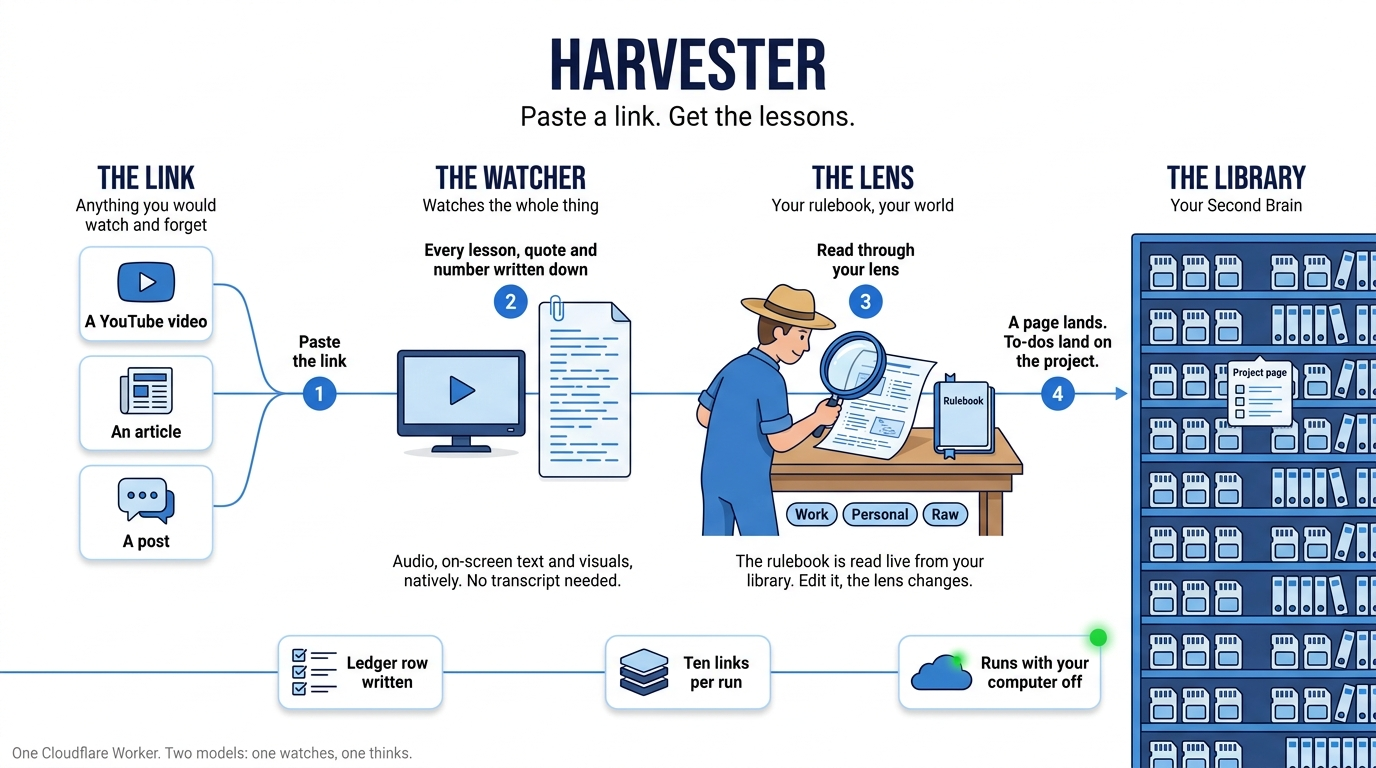
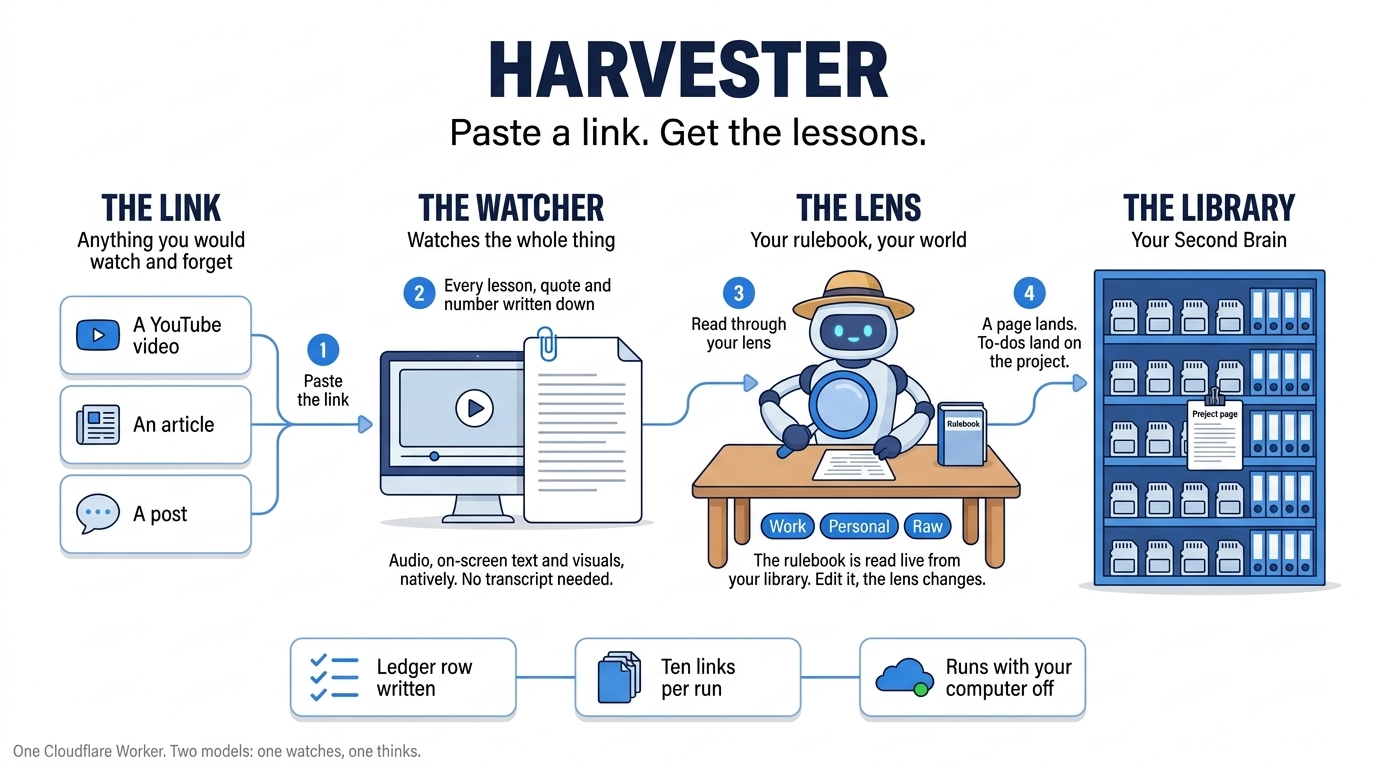
downloads: robot agents in the three explainer plates
Claude-Session: https://claude.ai/code/session_01VUg9rsnXRhP3ZgTBbGB6xz

diff --git a/index.html b/index.html
@@ -20,7 +20,7 @@ window.addEventListener("load", function () {
   <link rel="preconnect" href="https://fonts.googleapis.com">
   <link rel="preconnect" href="https://fonts.gstatic.com" crossorigin>
   <link href="https://fonts.googleapis.com/css2?family=Anton&family=Public+Sans:wght@400;500;600;700&family=IBM+Plex+Mono:wght@400;500&display=swap" rel="stylesheet">
-  <link rel="stylesheet" href="styles.css?v=20260924b" />
+  <link rel="stylesheet" href="styles.css?v=20260925a" />
 </head>
 <body>
   <a class="skip-link" href="#downloads">Skip to downloads</a>
@@ -51,7 +51,7 @@ window.addEventListener("load", function () {
         <div class="dl-grid">
           <article class="dl-card dl-card--wide">
             <a class="dl-card__fig" href="https://github.com/lennymadethat/second-brain">
-              <img src="/img/downloads/second-brain.png" alt="How Second Brain works: a rulebook at the front, a librarian that vectorizes every memory, a library any agent can search" loading="lazy" width="1376" height="768" />
+              <img src="/img/downloads/second-brain.png?v=2" alt="How Second Brain works: a rulebook at the front, a librarian that vectorizes every memory, a library any agent can search" loading="lazy" width="1376" height="768" />
             </a>
             <div class="dl-card__body">
               <p class="dl-card__unit spec">01 · SECOND BRAIN</p>
@@ -66,7 +66,7 @@ window.addEventListener("load", function () {
 
           <article class="dl-card">
             <a class="dl-card__fig" href="https://github.com/lennymadethat/ingester">
-              <img src="/img/downloads/ingester.png" alt="How the Ingester works: a file lands in the inbox, a sorter reads and classifies it, agents write pages into the library" loading="lazy" width="1376" height="768" />
+              <img src="/img/downloads/ingester.png?v=2" alt="How the Ingester works: a file lands in the inbox, a sorter reads and classifies it, agents write pages into the library" loading="lazy" width="1376" height="768" />
             </a>
             <div class="dl-card__body">
               <p class="dl-card__unit spec">02 · INGESTER</p>
@@ -81,7 +81,7 @@ window.addEventListener("load", function () {
 
           <article class="dl-card">
             <a class="dl-card__fig" href="https://github.com/lennymadethat/harvester">
-              <img src="/img/downloads/harvester.png" alt="How the Harvester works: a link goes in, a watcher takes notes, a lens with your rulebook reads them, a page lands in the library" loading="lazy" width="1376" height="768" />
+              <img src="/img/downloads/harvester.png?v=2" alt="How the Harvester works: a link goes in, a watcher takes notes, a lens with your rulebook reads them, a page lands in the library" loading="lazy" width="1376" height="768" />
             </a>
             <div class="dl-card__body">
               <p class="dl-card__unit spec">03 · HARVESTER</p>
